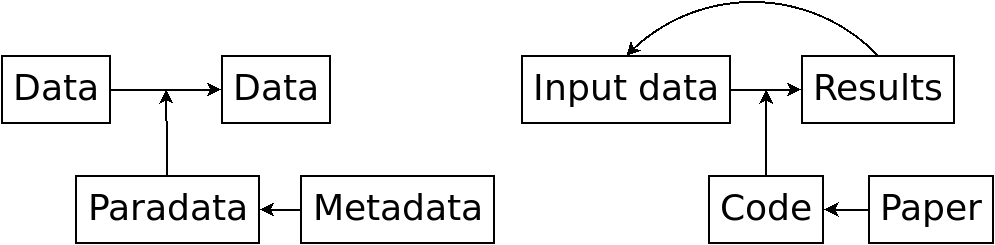
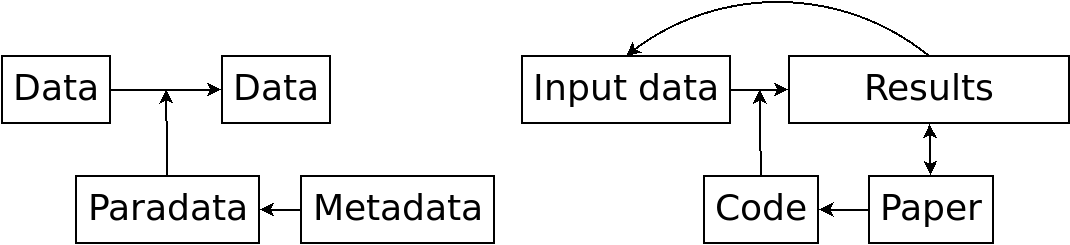
Update fig 1, thanks reviewer 1

diff --git a/article.tex b/article.tex
@@ -106,11 +106,11 @@ This paper discusses these general reasons applied to code.
   \caption{
     \textbf{Left}: general relation between data, paradata and metadata.
     \textbf{Right}: the same relations specified for genetic epidemiology.
-    Input data: genetic data, phenotypic data and associations
+    Input data: genetic data, phenotypic data and associations.
     found in earlier studies.
     Results: associations between genetic data and phenotypic data.
-    Code: the computer code used in a computational experiment
-    Paper: the scholarly paper describing the (code of the) experiment
+    Code: the computer code used in a computational experiment.
+    Paper: the scholarly paper describing the (code of the) experiment.
   }
   \label{fig:figure_1}
 \end{figure}

diff --git a/feedback/feedback_20221209.md b/feedback/feedback_20221209.md
@@ -33,7 +33,7 @@ Additionally, examples are reused more often.
 > problems and limitations to assuming code as a perfect form of paradata, 
 > and e.g. that keeping it more or less automatically makes research reproducible.
 
- * [ ] Discuss problems
+Yup, I agree and I think I did so.
 
 > Be careful with the style. 
 > A book chapter like this can be somewhat more conversational 
@@ -41,22 +41,20 @@ Additionally, examples are reused more often.
 > but colloquialisms are still not exactly encouraged. 
 > Check e.g. for abbreviations I’ll vs. I will etc.
 
-Thanks for this guideline and I have made the text a bit more formal.
-This means in practice, I have removed all uses of `I`, except in the last sentence
-and I have removed all uses of `'ll`.
+Thanks for this guideline: I have made the text more formal.
 
 > When you switch from Vancouver system to (Springer) Harvard system of referencing, 
 > check at the same time how you refer to earlier work. 
 > Preferably spell out researchers names and studies e.g.  “example is described in [11]” ⇒ example is described by XX and YY.
 
 Thanks for pointing this out. I now use Springer's LaTeX template with the
-desired referening system!
+desired referening system.
 
 > Remember to tell what the things you mention are. 
 > Right now it might sound unnecessary to tell what GitHub is 
 > but in a few years no one might remember anymore what it was.
 
- * [ ] Do so
+I agree, I think I do a better job now.
 
 > You have a tendency to make strong claims (which is fine) 
 > but make sure that you don’t contradict yourself 
@@ -66,51 +64,45 @@ desired referening system!
 > pasted as text in the Supplementary Materials” ⇒ 
 > that code would be commonly published.
 
-This is an excellent point and I have nuanced my wording regarding this.
-To examplify using your example, the rewording is something lik:
-'if -in the rare case- code is supplied, it is pasted in the Supmat'.
-
-> [ ] Be more precise in claims
+I strongly agreed with this. Restructuring and reviewing the chapter 
+multiple times have hopefully fixed this.
 
 > The abstract reads right now more like a part of the argument 
 > than an abstract (summary, description) of the chapter as a whole.
 
- * [ ] Check
+I agree. I changed the abstract completely.
 
 #### Introduction
 
 > You could think about the structure of the introduction 
 > to make the line of argument clearer.
 
- * [ ] Do so
+Agreed. Restructuring and reviewing the chapter 
+multiple times have hopefully fixed this.
 
 > The vignette in the beginning of the introduction is good 
 > but does not connect with what follows.
 
- * [ ] Connect
+Agreed, the examplary scientists make a return in the middle and 
+at the end of the chapter.
 
 > p1 l 43 The sentence starting here would need references.
 
 The reviewer is right: I wrote 'Paradata does not have a clear definition 
 yet (hence this book)' from hearsay at the meeting.
-This was indeed -in my words- a bit lazy, so thanks to you I fixed it!
-I added a referenced definition (to an Open Access paper):
-
-```
-Paradata are data about the data collection process (Choumert et al., 2019using)
-```
+This is, in retrospect, nonsense: I have had the time to read up 
+on that part of the literature and now I cite some papers that do 
+give definitions.
 
 > p2 Paradata figure is really informative. 
 > Considering that there is really no consensus on what paradata is, 
 > it might be good to formulate the text as a proposition 
 > i.e. if paradata is understood in this way, it would imply that.
 
-Thanks so much for this feedback! It has been the one most influential
+Thanks so much for this feedback! It has actually been the one most influential
 statements in revising the paper. One can now observe in the introduction
 how I -indeed- follow the implications of code being paradata, following
 'Improving the usefulness of research data with better paradata', Huvila, 2022.
-
-   * [ ] Consider this
 
 > The usual order of conclusions and discussion is 
 > first to have a discussion and then conclusion. 
@@ -119,18 +111,16 @@ how I -indeed- follow the implications of code being paradata, following
 > Maybe the recap could be done in the conclusions 
 > and the practical implications could be place right before them in a separate section?
 
-In my field it is more common to order discussion and conclusion like I did.
-To follow the book's conventions, I have ordered these chapters to 
-have 'Discussion' come before 'Conclusion'.
-
-   * [ ] Move Discussion before Conclusion
+I changed the order, after which I restructured and reviewed a lot. 
+I think it is now way better!
 
 > In addition to this, make sure to check the beginning of your chapter 
 > and make sure that it clearly tells heads up:
+>
+> * What is the domain discussed (e.g. archaeology, survey research) explained in terms that make sense for a non-expert.
 
- * What is the domain discussed (e.g. archaeology, survey research) explained in terms that make sense for a non-expert.
-
-   * [ ] Check if genetic epidemeology is discussed in Introduction in general terms
+I think this domain is explained reasonably well. I cut the table with
+definitions of terms, however, to reduce the word count. 
 
 > A very brief problem statement: Why paradata (or something related to it) 
 > is an issue in that domain i.e. why paradata is (not) needed, 
@@ -138,14 +128,15 @@ have 'Discussion' come before 'Conclusion'.
 >
 > This helps non-specialists in your area of expertise to understand the context of your chapter and the reason why it was written and to be included in this volume.
 
- * [ ] Do so
+I did so, closely adhering to the reasoning of 
+'Improving the usefulness of research data with better paradata', Huvila, 2022. :-)
 
 > Additional things to verify are:
 >
 > * Check that you have all the references in the list of references and that you cited 
 >   all references in the list.
 
- * [ ] Do so
+LaTeX does so automatically.
 
 > * Check that the appropriate form of data in plural is used, i.e. data are.
 
@@ -154,25 +145,11 @@ Now, I now always use 'data' as plural.
 
 > When revising your text, please try to be mindful of the indicative max. number of words per chapter (5 000 words + references, in practice an ideal total number of words is around 7000).
 
-From https://github.com/richelbilderbeek/chapter_paradata/actions/runs/3994305557/jobs/6851857855#step:5:9 I read:
+Fixed, I copy from https://github.com/richelbilderbeek/chapter_paradata/actions/runs/4166014852/jobs/7209797864#step:11:9:
 
 ```
-File: article.tex
-Encoding: ascii
-Words in text: 6094
-Words in headers: 38
-Words outside text (captions, etc.): 528
-Number of headers: 15
-Number of floats/tables/figures: 15
-Number of math inlines: 2
-Number of math displayed: 0
+Words in text: 4915
 ```
-
-So I felt safe. Apparently, 'Word in text' must be around 5000. 
-I can easily do that.
-
-   * [ ] Remove a 1000 words
-   * [ ] Check wordcount at end
 
 > Check that you followed all of the stipulations in the author instructions 
 > (September 2022) for the Perspectives to Paradata volume 
@@ -192,9 +169,14 @@ Yep, I added a checklist at the bottom of this document.
 
  * [ ] Do so
 
-> Send the two documents to me by email at the latest Feb 13, 2023. There is also a possibility to join a Q&A in Zoom about paper revisions Jan 17th, 2022 5pm-6pm CEST at https://uu-se.zoom.us/j/69966856109 (passcode: PARADATA).
+> Send the two documents to me by email at the latest Feb 13, 2023. 
 
  * [ ] Do so
+
+> There is also a possibility to join a Q&A in Zoom about paper revisions 
+> Jan 17th, 2022 5pm-6pm CEST at https://uu-se.zoom.us/j/69966856109 (passcode: PARADATA).
+
+Great that that options existed!
 
 ## Review 1
 
@@ -212,17 +194,34 @@ paper. Thanks so much for doing so!
 > possibly pushing back very strongly. 
 > This would be an interesting conversation; 
 > I don't mean to imply that the theme of this chapter is absolutely wrong.
-
-   * [ ] Discuss why this is controversion
-
 > The three biggest arguments against the thesis are:
->   * Code is generally considered to be difficult, sometimes near impossible, to understand. So, while code might be a clear and complete encoding of the paradata for some research, it is a poor way to communicate that paradata to humans.
 
-     * [ ] Address this
+Thanks for this feedback. I have streamlined, restructed and reviewed the
+paper, making it less controversial: among others, I no longer
+claim in the title that code is more important than the paper.
 
->   * Programmers typically these days write code that draws on libraries and interfaces written by others, and so is infrequently self-contained. Thus, even if the code written for some research happens to be extraordinarily clear for humans, understanding it fully likely requires great contextual knowledge about the software written by others that is merely reused. Even if code is "self contained", its operation may be altered by tools use to compile or run it (compiler, environments like Matlab, even operating systems and hardware).
+> * Code is generally considered to be difficult, sometimes near impossible, 
+>   to understand. So, while code might be a clear and complete encoding 
+>   of the paradata for some research, it is a poor way to communicate 
+>   that paradata to humans.
 
-     * [ ] Address this
+I agree with this point. The original idea behind this point, that could
+be phrased like 'reading code is more important than reading the paper',
+has been phased out. Instead, the paper talks more about best practices in
+general.
+
+> * Programmers typically these days write code that draws on libraries and 
+>   interfaces written by others, and so is infrequently self-contained. 
+>   Thus, even if the code written for some research happens to be 
+>   extraordinarily clear for humans, understanding it fully likely 
+>   requires great contextual knowledge about the software written by others 
+>   that is merely reused. Even if code is "self contained", 
+>   its operation may be altered by tools use to compile or run 
+>   it (compiler, environments like Matlab, even operating systems and hardware).
+
+I agree. The paper has been watered down to less strong claims in that regard,
+with less focus on the reading of code. Containers are mentioned 
+and discussed to the extent I felt would fit best.
 
 > It is generally considered to be difficult to predict the behavior of complex software, 
 > even if one understands the code. 
@@ -236,19 +235,35 @@ paper. Thanks so much for doing so!
 > that otherwise would be opaque to anyone who didn't write the code 
 > (and, often, after a short while, even those who wrote the code).
 
-     * [ ] Address this
+I agree. Instead of staying with the old claim that code is more important
+than a paper, the paper has become more of a follow-up on 
+'Improving the usefulness of research data with better paradata', Huvila, 2022,
+with less controversial claims.
 
-> * So, some might argue that the code is only trivially considerable as paradata, or that it is paradata that is only consumable by computers, and that the paper (or supplements to the paper) is essential to understand the paradata.
+> * So, some might argue that the code is only trivially considerable as 
+>   paradata, or that it is paradata that is only consumable by computers, 
+>   and that the paper (or supplements to the paper) is essential to 
+>   understand the paradata.
 
-   * [ ] Address this
+Again, the paper has changed its main stance :-)
 
-> The abstract shades the more provocative title. It is certainly true that the code is the true encoding of the paradata and is primary when there is disagreement with the research paper. Moreover, open/reproducible science would demand that the code be supplied. That doesn't mean that the code is stand-alone.
+> The abstract shades the more provocative title. 
+> It is certainly true that the code is the true encoding 
+> of the paradata and is primary when there is disagreement with the 
+> research paper. Moreover, open/reproducible science would demand that 
+> the code be supplied. That doesn't mean that the code is stand-alone.
 
-   * [ ] Address this
+I agree and us agreeing on this can be found in the paper.
 
- * Overall, I think this chapter could trigger interesting debates of many kinds, but given the venue it would be good if this chapter embodied the possible debates, rather than merely taking one point of view and leaving it to the reader to develop (unanswered) counter-arguments in their mind. However, I recognize that that opinion may not match the opinion of the editors.
+> * Overall, I think this chapter could trigger interesting debates of many 
+>   kinds, but given the venue it would be good if this chapter embodied 
+>   the possible debates, rather than merely taking one point of view and 
+>   leaving it to the reader to develop (unanswered) counter-arguments in 
+>   their mind. However, I recognize that that opinion may not match the 
+>   opinion of the editors.
 
-   * [ ] Address this
+I agree and in the end the chapter took a different turn and became
+less controversial.
 
 ### Detailed Comments
 
@@ -262,14 +277,19 @@ paper. Thanks so much for doing so!
 > So, it may not be the case that an experiment can be re-done easily 
 > without careful data/software provenance 
 > that carefully tracks the precise version of code that produced each result (1,2).
+>
+> Citations
+>  * L. Pouchard, S. Baldwin, T. Elsethagen, S. Jha, B. Raju, E. Stephan, L. Tang, and K.K. Van Dam, "Computational reproducibility of scientific workflows at extreme scales", Int. J. High Perf. Comp. Appl., vol. 33, pp. 763–777, 2019.
+>  * J. Conquest and M. Stiber, "Software and Data Provenance as a Basis for eScience Workflow", IEEE eScience, September 2021.
 
+I agree. As the chapter started focussing more on making code useful paradata,
+these facts faded away from the final paper. I hope you'll agree about that choise!
 
 > Having written that, it is an excellent point 
 > that computational research that does not supply software 
 > is inherently less valuable, and under some circumstances potentially suspect.
 
- * [ ] Add that papers to do so get more citations
-
+I think you'll be happy to find some references to the literature on that :-)
 
 > Not only does supplying software better support reproducibility 
 > and so increase trust in conclusions, 
@@ -279,14 +299,21 @@ paper. Thanks so much for doing so!
 > that cannot (easily) be falsified. 
 > (Some would argue that the latter is not even science.)
 
- * [ ] Why did I not include that argument? It could have been mine!
+I agree and to some extent this has made it into the paper.
+The Popperian falsification, however, has not, although I do agree!
 
 > Figure 1: The text in the figure is too small and cannot be read without significantly magnifying the document.
 
- * [ ] Make text bigger
+Yup, I agree and it is fixed now.
 
-
-> Is figure 1 simplistic? Does metadata only pertain to paradata in computational research (left)? In other words, can only reconstruct metadata given output data and code? Maybe. However, it certainly is the case that a paper is not mere metadata; doesn't a paper also interpret output data — assign meaning and context within the field of study (right)? Is that really something one can extract from the code?
+> Is figure 1 simplistic? Does metadata only pertain to paradata in 
+> computational research (left)? In other words, can only reconstruct 
+> metadata given output data and code? 
+> Maybe. 
+> However, it certainly is the case that a paper is not mere metadata; 
+> doesn't a paper also interpret output data — assign meaning and 
+> context within the field of study (right)? 
+> Is that really something one can extract from the code?
 
  * [ ] Consider
 
